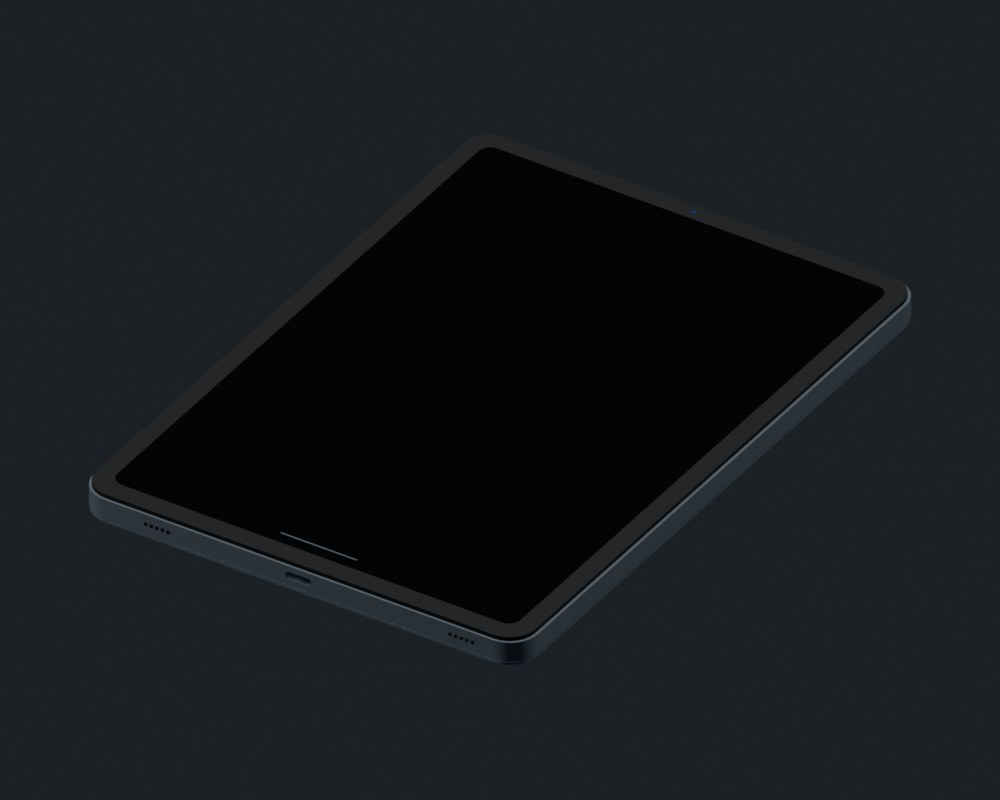
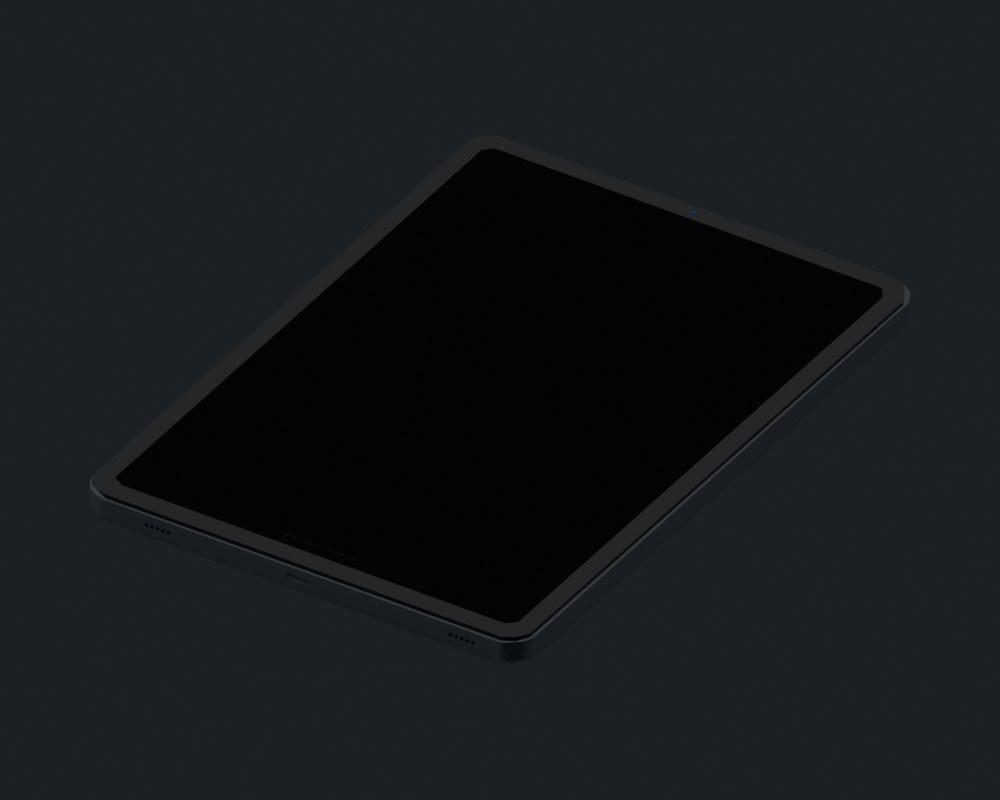
chore(3d): revisa GLB publicados y aísla formas auxiliares

diff --git a/assets/models/blender/estudio_demo.py b/assets/models/blender/estudio_demo.py
@@ -46,7 +46,7 @@ def ejecutar(familia, definiciones, montajes, reutilizadas=()):
         renderizar(args.renders, vacios, montajes)
 
 
-def renderizar(carpeta, vacios, montajes):
+def renderizar(carpeta, vacios, montajes, solo_montajes=False):
     """Mismo estudio para las piezas y los montajes, no modifica las mallas exportadas."""
     carpeta = Path(carpeta)
     carpeta.mkdir(parents=True, exist_ok=True)
@@ -80,7 +80,7 @@ def renderizar(carpeta, vacios, montajes):
         if o.type == 'FONT':
             o.hide_render = True
     modelos = {v.name: v for v in vacios}
-    piezas_sueltas = {v.name: [{'tipo': v.name, 'pos': [0, 0, 0]}] for v in vacios}
+    piezas_sueltas = {} if solo_montajes else {v.name: [{'tipo': v.name, 'pos': [0, 0, 0]}] for v in vacios}
     for nombre, piezas in {**piezas_sueltas, **montajes}.items():
         for v in vacios:
             for c in v.children:
@@ -99,7 +99,7 @@ def renderizar(carpeta, vacios, montajes):
                 copia.parent = None
                 copia.hide_render = False
                 escena.collection.objects.link(copia)
-                copia.matrix_world = CORE['Matrix'].Translation(pos) @ rot @ CORE['Matrix'].Scale(escala, 4) @ CORE['Matrix'].Translation(-centro)
+                copia.matrix_world = CORE['Matrix'].Translation(pos) @ rot @ CORE['Matrix'].Scale(escala, 4) @ CORE['Matrix'].Translation(-centro) @ obj.matrix_world
                 copias.append(copia)
         bpy.context.view_layer.update()
         pts = [o.matrix_world @ Vector(p) for o in copias for p in o.bound_box]

diff --git a/assets/models/blender/revisar_publicados.py b/assets/models/blender/revisar_publicados.py
@@ -1,0 +1,28 @@
+"""Render de los GLB optimizados con las recetas reales del visor, tras decodificar.mts.
+
+blender -b --factory-startup --python revisar_publicados.py -- \
+  --script relojes_demo.py --glb /tmp/decodificados/relojes_demo.glb --renders renders/relojes_demo
+"""
+import argparse
+from pathlib import Path
+import runpy
+import sys
+import bpy
+
+p = argparse.ArgumentParser()
+p.add_argument('--script', required=True)
+p.add_argument('--glb', required=True)
+p.add_argument('--renders', required=True)
+p.add_argument('--solo-montajes', action='store_true')
+args = p.parse_args(sys.argv[sys.argv.index('--') + 1:])
+script = Path(args.script)
+if not script.is_absolute():
+    script = Path(__file__).with_name(args.script)
+datos = runpy.run_path(str(script), run_name='revision_geometria_publicada')
+bpy.ops.wm.read_factory_settings(use_empty=True)
+bpy.ops.import_scene.gltf(filepath=str(Path(args.glb).resolve()))
+vacios = [o for o in bpy.context.scene.objects if o.type == 'EMPTY' and o.get('ajuste')]
+if len(vacios) != len(datos['D']):
+    raise ValueError('Los nodos publicados no coinciden con las formas del script')
+vacios += [fn() for fn in datos.get('REUSO', ())]
+datos['H']['renderizar'](args.renders, vacios, datos['M'], args.solo_montajes)

diff --git a/assets/models/blender/publicar_familia.py b/assets/models/blender/publicar_familia.py
@@ -26,7 +26,8 @@ with tempfile.TemporaryDirectory(prefix="sayso-familia-") as tmp:
     for archivo in indice["familias"].values():
         shutil.copy2(optimizados / archivo, destino / archivo)
     propias = set(indice["familias"])
-    anterior["tipos"] = {k:v for k,v in anterior["tipos"].items() if v["familia"] not in propias}
+    anterior["tipos"] = {k:indice["tipos"].get(k, v) for k,v in anterior["tipos"].items()
+                          if v["familia"] not in propias or k in indice["tipos"]}
     for k in ("familias", "tipos"):
         anterior[k].update(indice[k])
     (destino / "indice.json").write_text(json.dumps(anterior, ensure_ascii=False, indent=1) + "\n")

diff --git a/assets/models/blender/COTIDIANOS.md b/assets/models/blender/COTIDIANOS.md
@@ -20,6 +20,19 @@ Las hojas por equipo muestran las piezas nuevas; los IDs reutilizados se enumera
 Incluye 52 renders individuales y 13 hojas. Las piezas de cada hoja se normalizan para poder
 compararlas: esa vista no representa su tamaño relativo, un montaje ni un despiece real.
 
+## Revisar los GLB finales comprimidos
+
+Los renders de las familias nuevas se revisaron después de comprimir, usando
+`decodificar.mts` para reconstruir las recetas reales del visor. No son capturas
+del producto: la auditoría de cámara, etiquetas y coreografía en iPhone sigue aparte.
+
+```sh
+node --import tsx assets/models/blender/decodificar.mts public/models/piezas /tmp/sayso-revision
+blender -b --factory-startup --python-exit-code 1 --python assets/models/blender/revisar_publicados.py -- --script notebook_demo.py --glb /tmp/sayso-revision/notebook_demo.glb --renders assets/models/blender/renders/notebook_demo
+```
+
+Cambiar script y GLB por la familia a revisar. Sin APIs, credenciales ni costo de IA.
+
 ## Reglas de forma y materiales
 
 Cada pieza nueva tiene regla explícita en `AJUSTES` de `piezas.py`, exportada al índice y a
